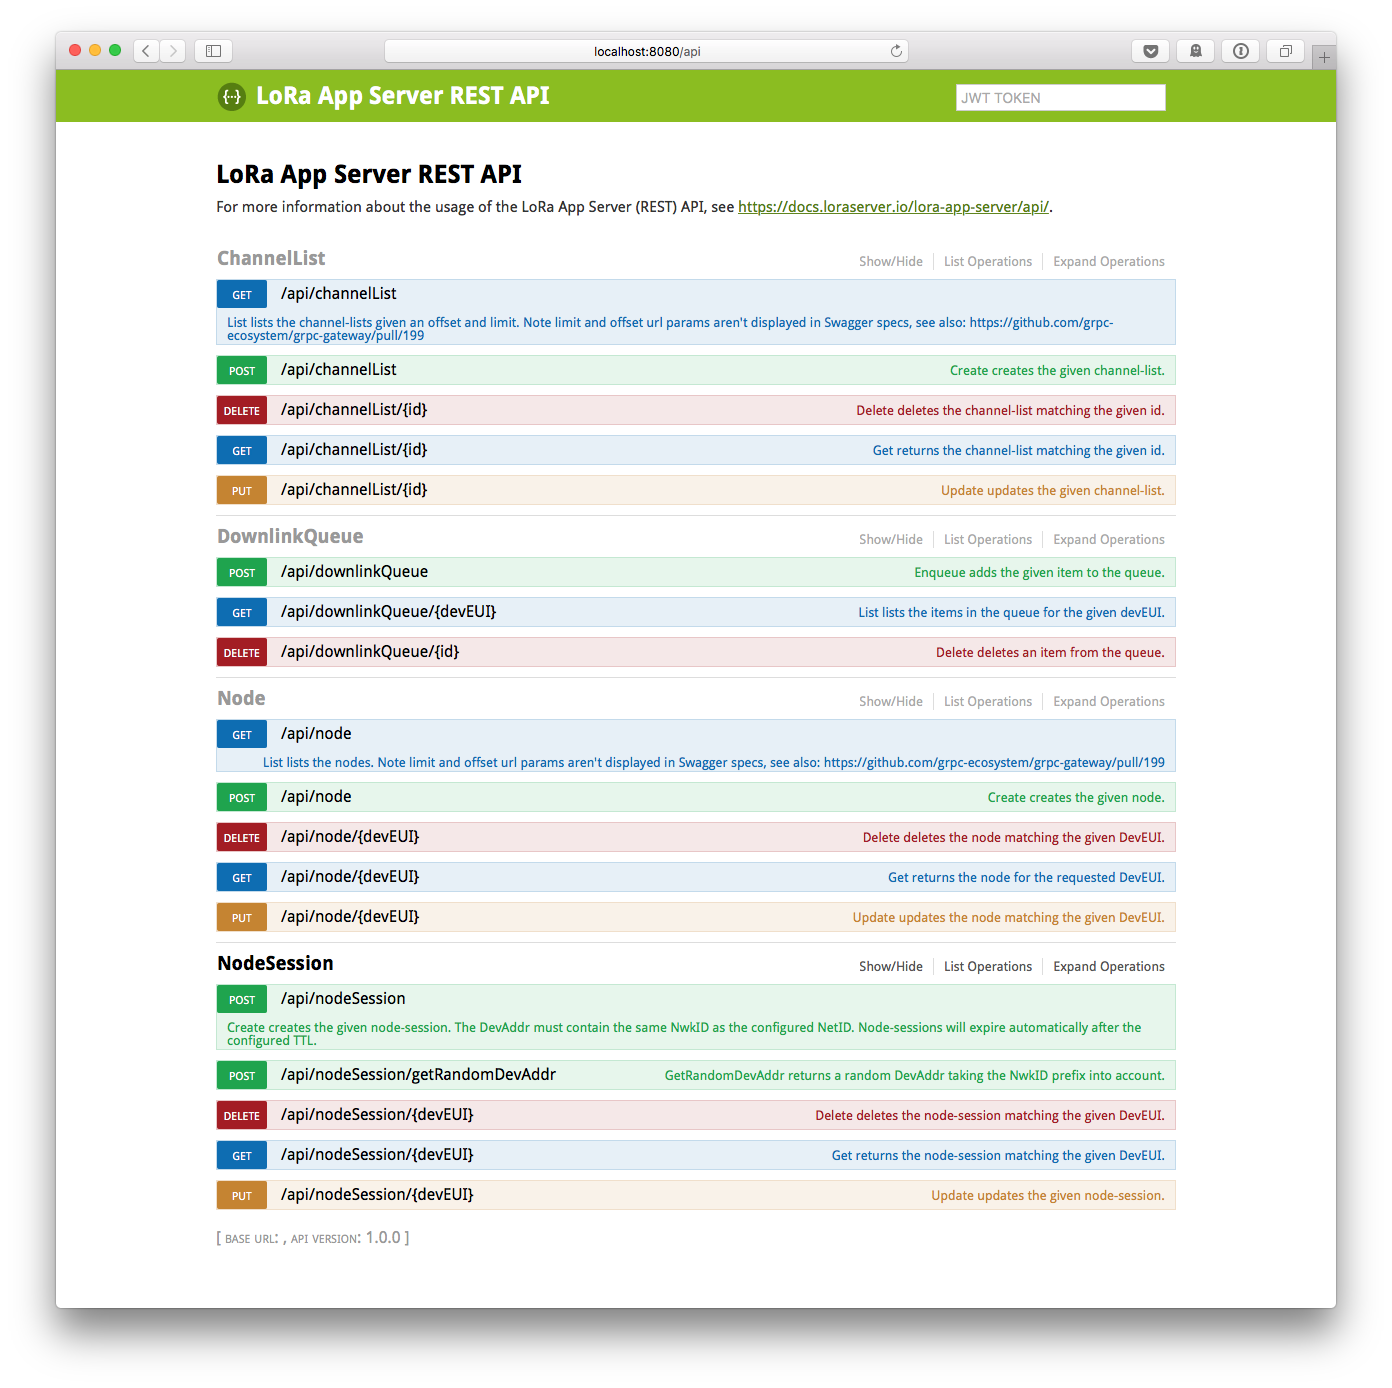
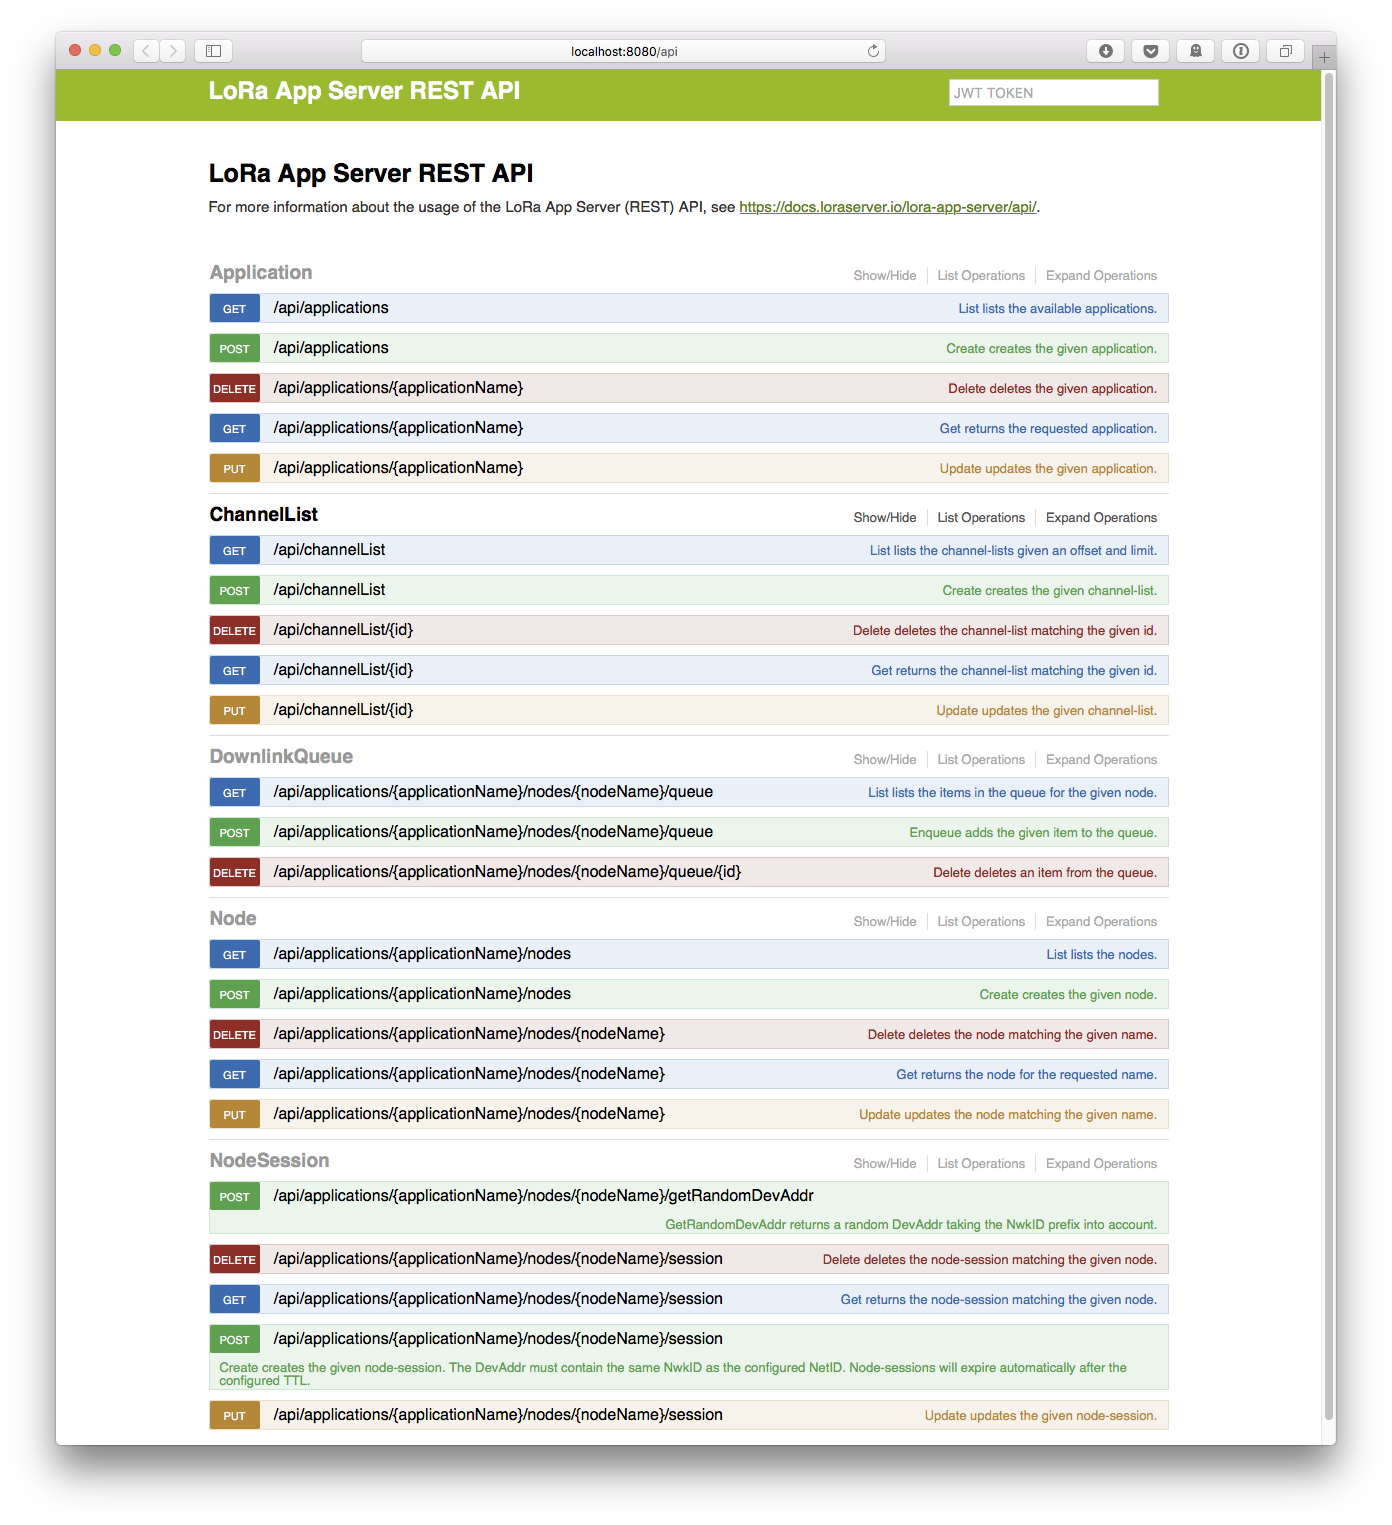
Update changelog + screenshots.

Changed region(s): [[0.0309, 0.031, 0.9576, 0.9604]]

diff --git a/docs/changelog.md b/docs/changelog.md
@@ -1,9 +1,21 @@
 # Changelog
 
-## Development
+## 0.3.0
+
+**This release contains changes that are not backwards compatible!**
 
 **Features:**
 
+* Nodes can now be grouped per application (e.g. called `temperature-sensor`
+  for backwards compatibility, the `AppEUI` is used as application name).
+* Nodes can now be given a name (e.g. `garden-sensor`), which must be unique 
+  within an application. For backwards compatibility the `DevEUI` is used as
+  name for the nodes.
+* JWT token validation is now based on the name of the application and node.
+* The gRPC and REST apis have been updated to reflect the above application and
+  node name changes.
+* The MQTT topics (and payloads) are now based on the application and node
+  name (see [mqtt topics](mqtt-topics.md) for more info).
 * More descriptive error on missing `--http-tls-cert` and `--http-tls-key`
   configuration.
 

diff --git a/README.md b/README.md
@@ -14,6 +14,7 @@ and payloads can be enqueued by using MQTT or the API.
 
 ## Screenshots
 
+![applications](docs/img/web_applications.png)
 ![nodes](docs/img/web_nodes.png)
 ![node details](docs/img/web_node_details.png)
 ![swagger api](docs/img/swagger.png)

diff --git a/docs/index.md b/docs/index.md
@@ -10,6 +10,7 @@ and payloads can be enqueued by using MQTT or the API.
 
 ## Screenshots
 
+![applications](img/web_applications.png)
 ![nodes](img/web_nodes.png)
 ![node details](img/web_node_details.png)
 ![swagger api](img/swagger.png)
